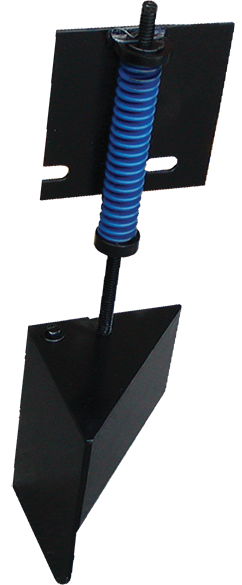
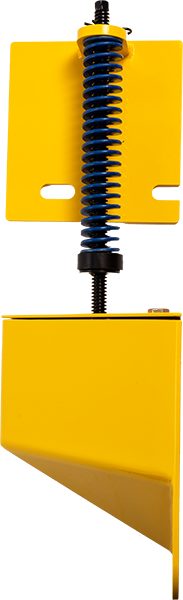
updated swm-featured image

diff --git a/public/css/style.css b/public/css/style.css
@@ -1,1 +1,1 @@
-body{font-family:'Roboto', sans-serif;line-height:1.5;background:#f7f7f7;opacity:0}h1,h2,h3{font-family:'Alfa Slab One', sans-serif}form{font-size:1.25rem}#scrollBtn{display:none;position:fixed;bottom:30px;right:30px;z-index:1000}.form-control{border:1px solid #191919}.header-link{color:#191919}.header-link:hover{text-decoration:underline;color:#191919}.footer-link{font-weight:600;color:#191919}.footer-link:hover{text-decoration:underline;color:#191919}.standard-link{font-weight:600;color:#191919;padding:0 .2em}.standard-link:hover{text-decoration:underline;color:#191919;background:#FFDE00}.standard-link-light{color:white;padding:0 .2em}.standard-link-light:hover{text-decoration:underline;color:#191919;background:#FFDE00}.phone-link{font-weight:600;color:#191919}.phone-link:hover,.phone-link:active{text-decoration:underline;color:#191919}.link{color:#191919;font-weight:500}.link:hover,.link:active{color:#191919;text-decoration:none}header{height:100vh;background:url(../img/hero-bg.jpg);background-size:cover;background-position:center;background-attachment:fixed}.top-bar{background:linear-gradient(rgba(255,222,0,0.7), rgba(255,222,0,0.7)),url(../img/topBarBg.png);color:#303030;font-family:'Alfa Slab One', sans-serif;font-size:1.2rem;position:relative;z-index:1001}.navbar{position:sticky;top:0;z-index:1000;background:#191919;box-shadow:0px 0px 21px 5px rgba(0,0,0,0.36)}.navbar-dark .navbar-brand{font-weight:600;transition:250ms}.navbar-dark .navbar-brand span{font-weight:300;margin-left:2px}.navbar-dark .navbar-brand:hover{color:#FFDE00}.dropdown-menu{border-radius:0;padding:0}.nav-item{font-size:1.2rem}@media (max-width: 50em){.nav-item{font-size:1rem}}.dropdown-item:first-child{border-top:4px solid #FFDE00}.dropdown-item{font-size:1.2rem;font-weight:600;padding-top:1em;padding-bottom:1em}.dropdown-item:hover{background:#ffe533}.dropdown-item:active{background:#191919;color:#f7f7f7}@media (max-width: 50em){.dropdown-item{font-size:1rem}}.dropdown-divider{border-color:#c4c4c4}.redDropItem:hover{background:#ff0000;color:#f7f7f7}.redDropItem:active{background:#c00;color:#f7f7f7}.navbar-dark .navbar-nav .nav-link{color:white}.navbar-dark .navbar-nav .nav-link:hover,.navbar-dark .navbar-nav .nav-link:active{color:#FFDE00}#footer{background:#dbdbdb;padding:4em 0;border-top:1px solid #727272}#footer hr{border:none;height:1px;width:100%;background:#303030}#footer .join{font-weight:200;font-size:1.2rem}#footer .social a{position:relative;top:0;text-decoration:none;transition:.3s}#footer .facebook{color:#3b5998}#footer .facebook:hover{top:-3px;color:#303030}#footer .twitter{color:#1DA1F2}#footer .twitter:hover{top:-3px;color:#303030}#footer .instagram{color:#262626}#footer .instagram:hover{top:-3px;color:#303030}#footer .google{color:#D84B37}#footer .google:hover{top:-3px;color:#303030}#footer .youtube{color:#ff0000}#footer .youtube:hover{top:-3px;color:#303030}#footer .vimeo{color:#1ab7ea}#footer .vimeo:hover{top:-3px;color:#303030}#footer .linked{color:#0077b5}#footer .linked:hover{top:-3px;color:#303030}#footer .address{font-size:.95rem}#footer .address span{font-weight:600}#footer .phone-link{color:#303030}#footer .phone-link:hover,#footer .phone-link:active{text-decoration:none;font-weight:bold}#footer .secondary-links{color:#191919;font-size:.8rem;padding:.5em 1em;border-bottom:1px solid #191919}#footer .secondary-links:hover,#footer .secondary-links:active{text-decoration:none;border:1px solid #191919}#awards{background:#191919}#hero{height:calc(100vh - 100px);background:#191919 url(../img/hero-bg_optimized.jpg);background-size:cover;background-position:center;background-attachment:fixed}#hero .divider{border:0;width:100%;height:1px;background:rgba(247,247,247,0.7)}#hero h1{font-size:3rem;color:#f7f7f7;text-shadow:0 0 25px rgba(0,0,0,0.9)}#hero .non-nuclear{display:inline-block;padding:.1em .35em;margin:.2em 0;background:#FFDE00;text-shadow:none;color:#191919}#hero .fa-angle-down{position:relative;top:-5px;margin-top:.5em;transition:250ms}#hero .fa-angle-down:hover{top:0px}@media (max-width: 1024px){#hero h1{font-size:2.5rem}}@media (max-width: 50em){#hero{height:85vh}#hero h1{font-size:2rem}#hero .hero-logo{width:75vw}#hero .fa-angle-down{margin-top:.1em}}#gaugesMap{min-height:100vh;background:#d8d8d8}#gaugesMap #indexMap{height:60vh;box-shadow:0px 0px 21px 5px rgba(0,0,0,0.36)}@media (max-width: 1024px){#gaugesMap #indexMap{height:50vh}}#gaugesMap .title{padding-top:2.25em;color:#191919}@media (max-width: 1024px){#gaugesMap .title{font-size:2rem}}#gaugesMap .about-text{font-size:1.5rem;line-height:1.2;color:#191919}#gaugesMap .fa-angle-down{color:#191919;position:relative;top:-5px;transition:250ms}#gaugesMap .fa-angle-down:hover{top:0px}#about{min-height:100vh;background:#191919}@media (max-width: 600px){#about{padding-bottom:2em}}#about h1{padding:2.5em 0 .5em 0}#about hr{border:none;height:1px;width:100%;background:#F8F9FA;margin-bottom:2.5em}#about .about-text{font-size:1.5rem;line-height:1.9}#about .about-text span{margin-right:2px;padding:.05em .2em;background:#FFDE00;font-weight:600;color:#191919}#about .fa-angle-down{position:relative;top:-5px;margin-top:.5em;transition:250ms}#about .fa-angle-down:hover{top:0px}@media (max-width: 50em){#about .title{font-size:2rem;padding:2.75em 0 .15em 0}#about .about-text{font-size:1.25rem;line-height:inherit}#about .fa-angle-down{margin-top:.1em}}@media (max-width: 600px){#about h1{font-size:2rem;padding:2em 0 .5em 0}}#featured{padding-bottom:2em}#featured .title{padding:2.5em 0 .5em 0;color:#191919}#featured hr{border:none;height:1px;width:100%;background:#303030;margin-bottom:2.5em}#featured .category-title{padding:.25em;background:#FFDE00;color:#191919}#featured a{text-decoration:none}#featured .card{border:none;background:#F8F9FA}#featured .card .card-img-top{max-width:250px}#featured .card .swm{max-width:175px}#featured .card p{font-weight:500}#featured .card .card-link{color:#191919}#featured .card .card-link:hover{text-decoration:none}#featured .card a{font-weight:700;color:#191919}#featured .card a:hover{text-decoration:underline;color:#191919}@media (max-width: 50em){#featured .title{font-size:2rem;padding:2.75em 0 .15em 0}#featured hr{margin-bottom:2em}#featured .card-title{font-size:1.5rem}#featured .category-title{font-size:1.75rem}}#trade-up{background:#191919;padding:4em 0}#trade-up hr{border:none;height:1px;width:100%;background:#dbdbdb;margin:1.5em 0}#trade-up p{font-weight:600}#trade-up .trade-btn{padding:.35em 1.5em;font-size:1.5rem;font-weight:700}#trade-up .trade-icon-div{font-size:16em}@media (max-width: 50em){#trade-up{padding:0em 0em 5em 0em}#trade-up h1{font-size:2rem}#trade-up .trade-icon-div{font-size:12em}}#announcements{padding:4em 0}#announcements .title{color:#191919}#announcements hr{border:none;height:1px;width:100%;background:#303030;margin:1.5em 0}#announcements p{font-weight:600}#announcements .announce-btn{padding:.35em 1.5em;font-size:1.5rem;font-weight:700}#announcements .announce-icon-div{font-size:16em}@media (max-width: 50em){#announcements{padding:0em 0em 5em 0em}#announcements .announce-btn{font-size:1.5rem;font-weight:700}#announcements h1{font-size:2rem}#announcements .announce-icon-div{font-size:12em}}@media (max-width: 600px){#announcements .announce-btn{display:block;width:100%}}.modal-header{border-bottom:none}.close{font-family:sans-serif;font-size:2rem;font-weight:300}.modal p{font-size:1rem}#privacy{background:#191919;color:#f7f7f7;font-size:1.1rem;padding:3em 0 5em 0;border-top:1px solid #727272}#privacy hr{margin-bottom:2em;background:#f7f7f7}#privacy h4{font-weight:700;margin-top:2em;margin-bottom:1em}#privacy .privacy_link{color:#f7f7f7;font-weight:bold;transition:.5s}#privacy .privacy_link:hover,#privacy .privacy_link:active{text-decoration:underline;color:#FFDE00}#productNav{background:#191919}.productLinkBtn{border:1px solid #FFDE00;color:#FFDE00;background:transparent}@media (max-width: 50em){.productLinkBtn{display:block;width:100%}}.productLinkBtn:hover{background:#FFDE00;color:#191919}.asphalt{background:#191919 url(../img/asphalt-bg.jpg)}.dirt{background:#191919 url(../img/soil-bg.jpg)}#title{padding:2em;background:rgba(0,0,0,0.6);border:2px solid white;color:#FFDE00;min-height:307px}#title hr{border:none;height:1px;background:#f7f7f7}#title .secondary-text{font-size:2.25rem}#title a{color:#f7f7f7}#title a:hover{color:#212529}.feature-block{max-height:307px;background:rgba(0,0,0,0.6);border:2px solid white;overflow:hidden}.product-feature{margin-top:-70px;transition:1s}.product-feature:hover{transform:scale(1.2)}.pqi301-feature{margin-top:-40px;transition:1s}.pqi301-feature:hover{transform:scale(1.2)}.swm-feature{transition:1s}.swm-feature:hover{transform:scale(1.2)}.pts-feature{margin-top:-50px;margin-left:75px;transition:1s}.pts-feature:hover{transform:scale(1.2)}#productImages{background:#191919}.imageContainer img{max-height:125px;margin:.38em;transition:.3s}.imageContainer img:hover{transform:scale(1.1)}.img-thumbnail{padding:.18rem}#intro .discontinued{padding:.75em;display:inline-block;background:red;color:white;font-weight:600}#intro p{font-weight:400}#intro span{font-weight:600;padding:0 .3em;background:#FFDE00}#intro .swm-beware{white-space:normal;display:block;border:1px solid #FF0000;padding:.75em;color:#FF0000;text-decoration:none;font-size:1.1rem;transition:.3s;text-align:center}#intro .swm-beware:hover{background:#FF0000;color:white}#intro .swm-fed-study{white-space:normal;display:block;border:1px solid #191919;padding:.75em;color:#191919;text-decoration:none;font-size:1.1rem;transition:.3s;text-align:center}#intro .swm-fed-study:hover{background:#191919;color:white}#productHighlights hr{border:none;height:1px;width:100%;background:#303030;margin-bottom:2em}#productHighlights ul{display:table}#productHighlights li{font-size:1.25rem;list-style-position:inside;padding-left:1em;text-indent:-.75em}#productHighlights li:before{content:"- "}#productVideos hr{border:none;height:1px;width:100%;background:#303030;margin-bottom:2em}.youtubeEmbed{position:relative;cursor:pointer;background:#ccc no-repeat center center / cover;padding-bottom:56.25%;height:0px;clear:both}.youtubeEmbed::before{content:'';background:rgba(255,255,255,0.6);height:80px;width:80px;display:block;margin:-40px 0 0 -40px;border-radius:100px;position:absolute;top:50%;left:50%;box-shadow:0 0 20px 3px rgba(51,51,51,0.8);transition:all .1s ease;z-index:1}.youtubeEmbed:hover::before{background:rgba(238,238,238,0.8);box-shadow:0 0 10px 3px rgba(51,51,51,0.8);width:100px;height:100px;margin:-50px 0 0 -50px}.youtubeEmbed::after{content:'';width:0;height:0;line-height:0px;display:block;border-style:solid;border-width:20px 0 20px 40px;margin:-20px 0 0 -15px;border-color:transparent transparent transparent #333;position:absolute;top:50%;left:50%;height:0;width:0;z-index:2}.youtubeEmbed iframe{width:100%;height:100%;position:absolute;top:0;left:0;z-index:3}.vimeoLink{white-space:normal}#productLibrary hr{border:none;height:1px;width:100%;background:#303030;margin-bottom:2em}#productLibrary .specMessage{font-size:1.1rem;font-weight:400}#productLibrary .libraryItem{padding:1em;border:1px solid #191919;border-top-width:3px;display:inline-block;color:#191919;transition:.3s;min-height:160px;width:100%}#productLibrary .libraryItem p{font-size:1.1rem}#productLibrary .yellowLib{background:#e8e8e8}#productLibrary .yellowLib:hover{text-decoration:none;color:#191919;background:#ffef80}#productFaqs hr{border:none;height:1px;width:100%;background:#303030;margin-bottom:2em}#productFaqs ul{font-size:1.25rem}#productFaqs .list-group-item{padding:1.75rem 1.25rem;border:1px solid #191919;line-height:1.25}#productFaqs .list-group-item.active{background:#191919;padding:.75rem 1.25rem;font-size:1.5rem}#productFaqs .list-group-item.active span.yellow{color:#FFDE00}#productFaqs span{font-weight:700;font-size:1.5rem;padding:0}#productMessage{background:#191919}#productMessage h3{color:#f7f7f7;font-weight:400}#productMessage span.yellow{color:#FFDE00}#productMessage span.green{color:#27b278}#legacyProducts{font-size:1.25rem;padding:3em 0;border-top:1px solid #727272;min-height:100vh}#legacyProducts hr{border:none;height:1px;width:100%;background:#303030;margin-bottom:2em}#legacyProducts h3{font-size:1.25rem;background:#FFDE00;display:inline-block;padding:.35em .5em}#support{font-size:1.25rem;padding:3em 0;border-top:1px solid #727272;min-height:100vh}#support hr{border:none;height:1px;width:100%;background:#303030;margin-bottom:2em}#support h3{font-size:1.7rem;background:#FFDE00;display:inline-block;padding:.35em .5em}#support .card .swm{max-width:130px;display:block;margin:0 auto}@media (max-width: 50em){#support .card .swm{max-width:200px}}.hearAbout{display:none}.newsModal h4{font-family:'Alfa Slab One', sans-serif}.newsModal .modal-header{padding-bottom:0}.newsModal p{font-size:1.1rem}.newsModal p .link{color:black;padding:0 .3em;background:#FFDE00;line-height:.5}.newsModal p .link:hover,.newsModal p .link:active{text-decoration:underline}.newsModal img{width:100%}.contactDist{font-family:'Alfa Slab One', sans-serif}.phone-link{color:#303030}.phone-link:hover,.phone-link:active{color:#303030}#training{font-size:1.25rem;border-top:1px solid #727272;min-height:800px}#training .buildingImage{width:100%;height:300px;background:url(../img/transtechBuilding.jpg);background-size:cover}#training hr{border:none;height:1px;width:100%;background:#7d7d7d;margin:3em 0}#training .link{font-weight:600;color:#191919;text-decoration:none}#training .link:hover{text-decoration:underline}#training .youtubeLink{white-space:normal;display:block;border:1px solid #FF0000;border-radius:none;padding:1em;color:#FF0000;text-decoration:none;transition:.3s}#training .youtubeLink:hover{background:#FF0000;color:white}#map{height:45vh;box-shadow:0px 0px 16px 0px rgba(0,0,0,0.36)}#contact{font-size:1.25rem;padding:3em 0;border-top:1px solid #727272}#contact hr{border:none;height:1px;width:100%;background:#303030;margin-bottom:2em}#contact p{margin-bottom:0}#contact .buildingImg{border:1px solid #191919}#contact .form-control{font-size:1.25rem}.fa-spinner,.submitMessage,#manualDownloadLink{display:none}.map-text{font-size:.85rem}.map-text span{font-weight:600}.map-text hr{margin:.5em 0}.map-text p{margin-top:.5em;margin-bottom:0}.map-text .link{color:#303030;font-weight:600}.map-text .link:hover,.map-text .link:active{text-decoration:none}#distributors{font-size:1.25rem;padding:3em 0;border-top:1px solid #727272}#distributors hr{border:none;height:1px;width:100%;background:#303030;margin-bottom:2em}#distributors h3{font-size:1.35rem;background:#FFDE00;display:inline-block;padding:.35em .5em}#distributors .companies{display:grid;grid-template-columns:repeat(2, 1fr)}#distributors .companies div{margin-bottom:1.75em}#distributors .companies span{font-weight:600}@media (max-width: 50em){#distributors .companies{grid-template-columns:1fr}}#news{font-size:1.25rem;padding:3em 0;border-top:1px solid #727272;min-height:100vh}#news hr{border:none;height:1px;width:100%;background:#303030;margin-bottom:2em}#news .news-items{display:grid;grid-template-columns:repeat(2, 1fr);grid-column-gap:2.5em}@media (max-width: 50em){#news .news-items{grid-template-columns:1fr}}#news h3{font-size:1.35rem;background:#FFDE00;display:inline-block;padding:.35em .5em}#news .news-link{display:block;color:#303030;font-weight:600;font-size:1.35rem;line-height:1.25;cursor:pointer}#news .news-link:hover,#news .news-link:active{text-decoration:underline}#news p{font-size:1.1rem;margin-bottom:3em}#news p .link{color:#303030}#news p .link:hover,#news p .link:active{text-decoration:none}.newsModal h4{font-family:'Alfa Slab One', sans-serif}.newsModal .modal-header{padding-bottom:0}.newsModal p{font-size:1.1rem}.newsModal p .link{color:black;padding:0 .3em;background:#FFDE00;line-height:.5}.newsModal p .link:hover,.newsModal p .link:active{text-decoration:underline}.newsModal img{width:100%}.contactDist{font-family:'Alfa Slab One', sans-serif}.phone-link{color:#303030}.phone-link:hover,.phone-link:active{color:#303030}#newsletter{font-size:1.25rem;padding:3em 0;border-top:1px solid #727272;min-height:90vh}#newsletter hr{border:none;height:1px;width:100%;background:#303030;margin-bottom:2em}#newsletter .newsletter-items{display:grid;grid-template-columns:repeat(2, 1fr);grid-column-gap:2.5em}@media (max-width: 50em){#newsletter .newsletter-items{grid-template-columns:1fr}}#newsletter h3{font-size:1.35rem;background:#FFDE00;display:inline-block;padding:.35em .5em}#newsletter .news-link{display:block;color:#303030;font-weight:600;font-size:1.35rem;line-height:1.25}#newsletter .news-link:hover,#newsletter .news-link:active{text-decoration:underline}#newsletter p{font-size:1.1rem;margin-bottom:3em}#newsletter p .link{color:#303030}#newsletter p .link:hover,#newsletter p .link:active{text-decoration:none}#tradeshows{font-size:1.25rem;padding:3em 0;border-top:1px solid #727272;min-height:100vh}#tradeshows hr{border:none;height:1px;width:100%;background:#303030}#tradeshows h3{font-size:1.35rem;background:#FFDE00;display:inline-block;padding:.35em .5em}#tradeshows .attending{font-size:1.25rem}#tradeshows .not-attending-title{margin-top:3em}#tradeshows .tradeshow-link{display:block;color:#303030;font-weight:600;font-size:1.35rem;line-height:1.25}#tradeshows .tradeshow-link:hover,#tradeshows .tradeshow-link:active{text-decoration:underline}#tradeshows p{font-size:1.1rem}#community{padding:3em 0;border-top:1px solid #727272;min-height:100vh}#community hr{border:none;height:1px;width:100%;background:#303030;margin-bottom:2em}#community h3{font-size:1.35rem;background:#FFDE00;display:inline-block;padding:.35em .5em}#community .card{position:relative}#community .card img{height:250px;object-fit:cover}#community .card-text{font-size:1.15rem}#community .date{position:absolute;display:inline-block;padding:.35em;background:#202329;color:white;font-size:.75rem}.communityModal h4{font-family:'Alfa Slab One', sans-serif}.communityModal p{font-size:1.1rem}.communityModal p .link{color:black;padding:0 .3em;background:#FFDE00;line-height:.5}.communityModal p .link:hover,.communityModal p .link:active{text-decoration:underline}.communityModal img{width:95%}
+body{font-family:'Roboto', sans-serif;line-height:1.5;background:#f7f7f7;opacity:0}h1,h2,h3{font-family:'Alfa Slab One', sans-serif}form{font-size:1.25rem}#scrollBtn{display:none;position:fixed;bottom:30px;right:30px;z-index:1000}.form-control{border:1px solid #191919}.header-link{color:#191919}.header-link:hover{text-decoration:underline;color:#191919}.footer-link{font-weight:600;color:#191919}.footer-link:hover{text-decoration:underline;color:#191919}.standard-link{font-weight:600;color:#191919;padding:0 .2em}.standard-link:hover{text-decoration:underline;color:#191919;background:#FFDE00}.standard-link-light{color:white;padding:0 .2em}.standard-link-light:hover{text-decoration:underline;color:#191919;background:#FFDE00}.phone-link{font-weight:600;color:#191919}.phone-link:hover,.phone-link:active{text-decoration:underline;color:#191919}.link{color:#191919;font-weight:500}.link:hover,.link:active{color:#191919;text-decoration:none}header{height:100vh;background:url(../img/hero-bg.jpg);background-size:cover;background-position:center;background-attachment:fixed}.top-bar{background:linear-gradient(rgba(255,222,0,0.7), rgba(255,222,0,0.7)),url(../img/topBarBg.png);color:#303030;font-family:'Alfa Slab One', sans-serif;font-size:1.2rem;position:relative;z-index:1001}.navbar{position:sticky;top:0;z-index:1000;background:#191919;box-shadow:0px 0px 21px 5px rgba(0,0,0,0.36)}.navbar-dark .navbar-brand{font-weight:600;transition:250ms}.navbar-dark .navbar-brand span{font-weight:300;margin-left:2px}.navbar-dark .navbar-brand:hover{color:#FFDE00}.dropdown-menu{border-radius:0;padding:0}.nav-item{font-size:1.2rem}@media (max-width: 50em){.nav-item{font-size:1rem}}.dropdown-item:first-child{border-top:4px solid #FFDE00}.dropdown-item{font-size:1.2rem;font-weight:600;padding-top:1em;padding-bottom:1em}.dropdown-item:hover{background:#ffe533}.dropdown-item:active{background:#191919;color:#f7f7f7}@media (max-width: 50em){.dropdown-item{font-size:1rem}}.dropdown-divider{border-color:#c4c4c4}.redDropItem:hover{background:#ff0000;color:#f7f7f7}.redDropItem:active{background:#c00;color:#f7f7f7}.navbar-dark .navbar-nav .nav-link{color:white}.navbar-dark .navbar-nav .nav-link:hover,.navbar-dark .navbar-nav .nav-link:active{color:#FFDE00}#footer{background:#dbdbdb;padding:4em 0;border-top:1px solid #727272}#footer hr{border:none;height:1px;width:100%;background:#303030}#footer .join{font-weight:200;font-size:1.2rem}#footer .social a{position:relative;top:0;text-decoration:none;transition:.3s}#footer .facebook{color:#3b5998}#footer .facebook:hover{top:-3px;color:#303030}#footer .twitter{color:#1DA1F2}#footer .twitter:hover{top:-3px;color:#303030}#footer .instagram{color:#262626}#footer .instagram:hover{top:-3px;color:#303030}#footer .google{color:#D84B37}#footer .google:hover{top:-3px;color:#303030}#footer .youtube{color:#ff0000}#footer .youtube:hover{top:-3px;color:#303030}#footer .vimeo{color:#1ab7ea}#footer .vimeo:hover{top:-3px;color:#303030}#footer .linked{color:#0077b5}#footer .linked:hover{top:-3px;color:#303030}#footer .address{font-size:.95rem}#footer .address span{font-weight:600}#footer .phone-link{color:#303030}#footer .phone-link:hover,#footer .phone-link:active{text-decoration:none;font-weight:bold}#footer .secondary-links{color:#191919;font-size:.8rem;padding:.5em 1em;border-bottom:1px solid #191919}#footer .secondary-links:hover,#footer .secondary-links:active{text-decoration:none;border:1px solid #191919}#awards{background:#191919}#hero{height:calc(100vh - 100px);background:#191919 url(../img/hero-bg_optimized.jpg);background-size:cover;background-position:center;background-attachment:fixed}#hero .divider{border:0;width:100%;height:1px;background:rgba(247,247,247,0.7)}#hero h1{font-size:3rem;color:#f7f7f7;text-shadow:0 0 25px rgba(0,0,0,0.9)}#hero .non-nuclear{display:inline-block;padding:.1em .35em;margin:.2em 0;background:#FFDE00;text-shadow:none;color:#191919}#hero .fa-angle-down{position:relative;top:-5px;margin-top:.5em;transition:250ms}#hero .fa-angle-down:hover{top:0px}@media (max-width: 1024px){#hero h1{font-size:2.5rem}}@media (max-width: 50em){#hero{height:85vh}#hero h1{font-size:2rem}#hero .hero-logo{width:75vw}#hero .fa-angle-down{margin-top:.1em}}#gaugesMap{min-height:100vh;background:#d8d8d8}#gaugesMap #indexMap{height:60vh;box-shadow:0px 0px 21px 5px rgba(0,0,0,0.36)}@media (max-width: 1024px){#gaugesMap #indexMap{height:50vh}}#gaugesMap .title{padding-top:2.25em;color:#191919}@media (max-width: 1024px){#gaugesMap .title{font-size:2rem}}#gaugesMap .about-text{font-size:1.5rem;line-height:1.2;color:#191919}#gaugesMap .fa-angle-down{color:#191919;position:relative;top:-5px;transition:250ms}#gaugesMap .fa-angle-down:hover{top:0px}#about{min-height:100vh;background:#191919}@media (max-width: 600px){#about{padding-bottom:2em}}#about h1{padding:2.5em 0 .5em 0}#about hr{border:none;height:1px;width:100%;background:#F8F9FA;margin-bottom:2.5em}#about .about-text{font-size:1.5rem;line-height:1.9}#about .about-text span{margin-right:2px;padding:.05em .2em;background:#FFDE00;font-weight:600;color:#191919}#about .fa-angle-down{position:relative;top:-5px;margin-top:.5em;transition:250ms}#about .fa-angle-down:hover{top:0px}@media (max-width: 50em){#about .title{font-size:2rem;padding:2.75em 0 .15em 0}#about .about-text{font-size:1.25rem;line-height:inherit}#about .fa-angle-down{margin-top:.1em}}@media (max-width: 600px){#about h1{font-size:2rem;padding:2em 0 .5em 0}}#featured{padding-bottom:2em}#featured .title{padding:2.5em 0 .5em 0;color:#191919}#featured hr{border:none;height:1px;width:100%;background:#303030;margin-bottom:2.5em}#featured .category-title{padding:.25em;background:#FFDE00;color:#191919}#featured a{text-decoration:none}#featured .card{border:none;background:#F8F9FA}#featured .card .card-img-top{max-width:250px}#featured .card .swm{max-width:125px}#featured .card p{font-weight:500}#featured .card .card-link{color:#191919}#featured .card .card-link:hover{text-decoration:none}#featured .card a{font-weight:700;color:#191919}#featured .card a:hover{text-decoration:underline;color:#191919}@media (max-width: 50em){#featured .title{font-size:2rem;padding:2.75em 0 .15em 0}#featured hr{margin-bottom:2em}#featured .card-title{font-size:1.5rem}#featured .category-title{font-size:1.75rem}}#trade-up{background:#191919;padding:4em 0}#trade-up hr{border:none;height:1px;width:100%;background:#dbdbdb;margin:1.5em 0}#trade-up p{font-weight:600}#trade-up .trade-btn{padding:.35em 1.5em;font-size:1.5rem;font-weight:700}#trade-up .trade-icon-div{font-size:16em}@media (max-width: 50em){#trade-up{padding:0em 0em 5em 0em}#trade-up h1{font-size:2rem}#trade-up .trade-icon-div{font-size:12em}}#announcements{padding:4em 0}#announcements .title{color:#191919}#announcements hr{border:none;height:1px;width:100%;background:#303030;margin:1.5em 0}#announcements p{font-weight:600}#announcements .announce-btn{padding:.35em 1.5em;font-size:1.5rem;font-weight:700}#announcements .announce-icon-div{font-size:16em}@media (max-width: 50em){#announcements{padding:0em 0em 5em 0em}#announcements .announce-btn{font-size:1.5rem;font-weight:700}#announcements h1{font-size:2rem}#announcements .announce-icon-div{font-size:12em}}@media (max-width: 600px){#announcements .announce-btn{display:block;width:100%}}.modal-header{border-bottom:none}.close{font-family:sans-serif;font-size:2rem;font-weight:300}.modal p{font-size:1rem}#privacy{background:#191919;color:#f7f7f7;font-size:1.1rem;padding:3em 0 5em 0;border-top:1px solid #727272}#privacy hr{margin-bottom:2em;background:#f7f7f7}#privacy h4{font-weight:700;margin-top:2em;margin-bottom:1em}#privacy .privacy_link{color:#f7f7f7;font-weight:bold;transition:.5s}#privacy .privacy_link:hover,#privacy .privacy_link:active{text-decoration:underline;color:#FFDE00}#productNav{background:#191919}.productLinkBtn{border:1px solid #FFDE00;color:#FFDE00;background:transparent}@media (max-width: 50em){.productLinkBtn{display:block;width:100%}}.productLinkBtn:hover{background:#FFDE00;color:#191919}.asphalt{background:#191919 url(../img/asphalt-bg.jpg)}.dirt{background:#191919 url(../img/soil-bg.jpg)}#title{padding:2em;background:rgba(0,0,0,0.6);border:2px solid white;color:#FFDE00;min-height:307px}#title hr{border:none;height:1px;background:#f7f7f7}#title .secondary-text{font-size:2.25rem}#title a{color:#f7f7f7}#title a:hover{color:#212529}.feature-block{max-height:307px;background:rgba(0,0,0,0.6);border:2px solid white;overflow:hidden}.product-feature{margin-top:-70px;transition:1s}.product-feature:hover{transform:scale(1.2)}.pqi301-feature{margin-top:-40px;transition:1s}.pqi301-feature:hover{transform:scale(1.2)}.swm-feature{transition:1s}.swm-feature:hover{transform:scale(1.2)}.pts-feature{margin-top:-50px;margin-left:75px;transition:1s}.pts-feature:hover{transform:scale(1.2)}#productImages{background:#191919}.imageContainer img{max-height:125px;margin:.38em;transition:.3s}.imageContainer img:hover{transform:scale(1.1)}.img-thumbnail{padding:.18rem}#intro .discontinued{padding:.75em;display:inline-block;background:red;color:white;font-weight:600}#intro p{font-weight:400}#intro span{font-weight:600;padding:0 .3em;background:#FFDE00}#intro .swm-beware{white-space:normal;display:block;border:1px solid #FF0000;padding:.75em;color:#FF0000;text-decoration:none;font-size:1.1rem;transition:.3s;text-align:center}#intro .swm-beware:hover{background:#FF0000;color:white}#intro .swm-fed-study{white-space:normal;display:block;border:1px solid #191919;padding:.75em;color:#191919;text-decoration:none;font-size:1.1rem;transition:.3s;text-align:center}#intro .swm-fed-study:hover{background:#191919;color:white}#productHighlights hr{border:none;height:1px;width:100%;background:#303030;margin-bottom:2em}#productHighlights ul{display:table}#productHighlights li{font-size:1.25rem;list-style-position:inside;padding-left:1em;text-indent:-.75em}#productHighlights li:before{content:"- "}#productVideos hr{border:none;height:1px;width:100%;background:#303030;margin-bottom:2em}.youtubeEmbed{position:relative;cursor:pointer;background:#ccc no-repeat center center / cover;padding-bottom:56.25%;height:0px;clear:both}.youtubeEmbed::before{content:'';background:rgba(255,255,255,0.6);height:80px;width:80px;display:block;margin:-40px 0 0 -40px;border-radius:100px;position:absolute;top:50%;left:50%;box-shadow:0 0 20px 3px rgba(51,51,51,0.8);transition:all .1s ease;z-index:1}.youtubeEmbed:hover::before{background:rgba(238,238,238,0.8);box-shadow:0 0 10px 3px rgba(51,51,51,0.8);width:100px;height:100px;margin:-50px 0 0 -50px}.youtubeEmbed::after{content:'';width:0;height:0;line-height:0px;display:block;border-style:solid;border-width:20px 0 20px 40px;margin:-20px 0 0 -15px;border-color:transparent transparent transparent #333;position:absolute;top:50%;left:50%;height:0;width:0;z-index:2}.youtubeEmbed iframe{width:100%;height:100%;position:absolute;top:0;left:0;z-index:3}.vimeoLink{white-space:normal}#productLibrary hr{border:none;height:1px;width:100%;background:#303030;margin-bottom:2em}#productLibrary .specMessage{font-size:1.1rem;font-weight:400}#productLibrary .libraryItem{padding:1em;border:1px solid #191919;border-top-width:3px;display:inline-block;color:#191919;transition:.3s;min-height:160px;width:100%}#productLibrary .libraryItem p{font-size:1.1rem}#productLibrary .yellowLib{background:#e8e8e8}#productLibrary .yellowLib:hover{text-decoration:none;color:#191919;background:#ffef80}#productFaqs hr{border:none;height:1px;width:100%;background:#303030;margin-bottom:2em}#productFaqs ul{font-size:1.25rem}#productFaqs .list-group-item{padding:1.75rem 1.25rem;border:1px solid #191919;line-height:1.25}#productFaqs .list-group-item.active{background:#191919;padding:.75rem 1.25rem;font-size:1.5rem}#productFaqs .list-group-item.active span.yellow{color:#FFDE00}#productFaqs span{font-weight:700;font-size:1.5rem;padding:0}#productMessage{background:#191919}#productMessage h3{color:#f7f7f7;font-weight:400}#productMessage span.yellow{color:#FFDE00}#productMessage span.green{color:#27b278}#legacyProducts{font-size:1.25rem;padding:3em 0;border-top:1px solid #727272;min-height:100vh}#legacyProducts hr{border:none;height:1px;width:100%;background:#303030;margin-bottom:2em}#legacyProducts h3{font-size:1.25rem;background:#FFDE00;display:inline-block;padding:.35em .5em}#support{font-size:1.25rem;padding:3em 0;border-top:1px solid #727272;min-height:100vh}#support hr{border:none;height:1px;width:100%;background:#303030;margin-bottom:2em}#support h3{font-size:1.7rem;background:#FFDE00;display:inline-block;padding:.35em .5em}#support .card .swm{max-width:130px;display:block;margin:0 auto}@media (max-width: 50em){#support .card .swm{max-width:200px}}.hearAbout{display:none}.newsModal h4{font-family:'Alfa Slab One', sans-serif}.newsModal .modal-header{padding-bottom:0}.newsModal p{font-size:1.1rem}.newsModal p .link{color:black;padding:0 .3em;background:#FFDE00;line-height:.5}.newsModal p .link:hover,.newsModal p .link:active{text-decoration:underline}.newsModal img{width:100%}.contactDist{font-family:'Alfa Slab One', sans-serif}.phone-link{color:#303030}.phone-link:hover,.phone-link:active{color:#303030}#training{font-size:1.25rem;border-top:1px solid #727272;min-height:800px}#training .buildingImage{width:100%;height:300px;background:url(../img/transtechBuilding.jpg);background-size:cover}#training hr{border:none;height:1px;width:100%;background:#7d7d7d;margin:3em 0}#training .link{font-weight:600;color:#191919;text-decoration:none}#training .link:hover{text-decoration:underline}#training .youtubeLink{white-space:normal;display:block;border:1px solid #FF0000;border-radius:none;padding:1em;color:#FF0000;text-decoration:none;transition:.3s}#training .youtubeLink:hover{background:#FF0000;color:white}#map{height:45vh;box-shadow:0px 0px 16px 0px rgba(0,0,0,0.36)}#contact{font-size:1.25rem;padding:3em 0;border-top:1px solid #727272}#contact hr{border:none;height:1px;width:100%;background:#303030;margin-bottom:2em}#contact p{margin-bottom:0}#contact .buildingImg{border:1px solid #191919}#contact .form-control{font-size:1.25rem}.fa-spinner,.submitMessage,#manualDownloadLink{display:none}.map-text{font-size:.85rem}.map-text span{font-weight:600}.map-text hr{margin:.5em 0}.map-text p{margin-top:.5em;margin-bottom:0}.map-text .link{color:#303030;font-weight:600}.map-text .link:hover,.map-text .link:active{text-decoration:none}#distributors{font-size:1.25rem;padding:3em 0;border-top:1px solid #727272}#distributors hr{border:none;height:1px;width:100%;background:#303030;margin-bottom:2em}#distributors h3{font-size:1.35rem;background:#FFDE00;display:inline-block;padding:.35em .5em}#distributors .companies{display:grid;grid-template-columns:repeat(2, 1fr)}#distributors .companies div{margin-bottom:1.75em}#distributors .companies span{font-weight:600}@media (max-width: 50em){#distributors .companies{grid-template-columns:1fr}}#news{font-size:1.25rem;padding:3em 0;border-top:1px solid #727272;min-height:100vh}#news hr{border:none;height:1px;width:100%;background:#303030;margin-bottom:2em}#news .news-items{display:grid;grid-template-columns:repeat(2, 1fr);grid-column-gap:2.5em}@media (max-width: 50em){#news .news-items{grid-template-columns:1fr}}#news h3{font-size:1.35rem;background:#FFDE00;display:inline-block;padding:.35em .5em}#news .news-link{display:block;color:#303030;font-weight:600;font-size:1.35rem;line-height:1.25;cursor:pointer}#news .news-link:hover,#news .news-link:active{text-decoration:underline}#news p{font-size:1.1rem;margin-bottom:3em}#news p .link{color:#303030}#news p .link:hover,#news p .link:active{text-decoration:none}.newsModal h4{font-family:'Alfa Slab One', sans-serif}.newsModal .modal-header{padding-bottom:0}.newsModal p{font-size:1.1rem}.newsModal p .link{color:black;padding:0 .3em;background:#FFDE00;line-height:.5}.newsModal p .link:hover,.newsModal p .link:active{text-decoration:underline}.newsModal img{width:100%}.contactDist{font-family:'Alfa Slab One', sans-serif}.phone-link{color:#303030}.phone-link:hover,.phone-link:active{color:#303030}#newsletter{font-size:1.25rem;padding:3em 0;border-top:1px solid #727272;min-height:90vh}#newsletter hr{border:none;height:1px;width:100%;background:#303030;margin-bottom:2em}#newsletter .newsletter-items{display:grid;grid-template-columns:repeat(2, 1fr);grid-column-gap:2.5em}@media (max-width: 50em){#newsletter .newsletter-items{grid-template-columns:1fr}}#newsletter h3{font-size:1.35rem;background:#FFDE00;display:inline-block;padding:.35em .5em}#newsletter .news-link{display:block;color:#303030;font-weight:600;font-size:1.35rem;line-height:1.25}#newsletter .news-link:hover,#newsletter .news-link:active{text-decoration:underline}#newsletter p{font-size:1.1rem;margin-bottom:3em}#newsletter p .link{color:#303030}#newsletter p .link:hover,#newsletter p .link:active{text-decoration:none}#tradeshows{font-size:1.25rem;padding:3em 0;border-top:1px solid #727272;min-height:100vh}#tradeshows hr{border:none;height:1px;width:100%;background:#303030}#tradeshows h3{font-size:1.35rem;background:#FFDE00;display:inline-block;padding:.35em .5em}#tradeshows .attending{font-size:1.25rem}#tradeshows .not-attending-title{margin-top:3em}#tradeshows .tradeshow-link{display:block;color:#303030;font-weight:600;font-size:1.35rem;line-height:1.25}#tradeshows .tradeshow-link:hover,#tradeshows .tradeshow-link:active{text-decoration:underline}#tradeshows p{font-size:1.1rem}#community{padding:3em 0;border-top:1px solid #727272;min-height:100vh}#community hr{border:none;height:1px;width:100%;background:#303030;margin-bottom:2em}#community h3{font-size:1.35rem;background:#FFDE00;display:inline-block;padding:.35em .5em}#community .card{position:relative}#community .card img{height:250px;object-fit:cover}#community .card-text{font-size:1.15rem}#community .date{position:absolute;display:inline-block;padding:.35em;background:#202329;color:white;font-size:.75rem}.communityModal h4{font-family:'Alfa Slab One', sans-serif}.communityModal p{font-size:1.1rem}.communityModal p .link{color:black;padding:0 .3em;background:#FFDE00;line-height:.5}.communityModal p .link:hover,.communityModal p .link:active{text-decoration:underline}.communityModal img{width:95%}

diff --git a/public/scss/partials/index/_featured.scss b/public/scss/partials/index/_featured.scss
@@ -33,7 +33,7 @@
     }
     
     .swm {
-      max-width: 175px;
+      max-width: 125px;
     }
     
     p {
